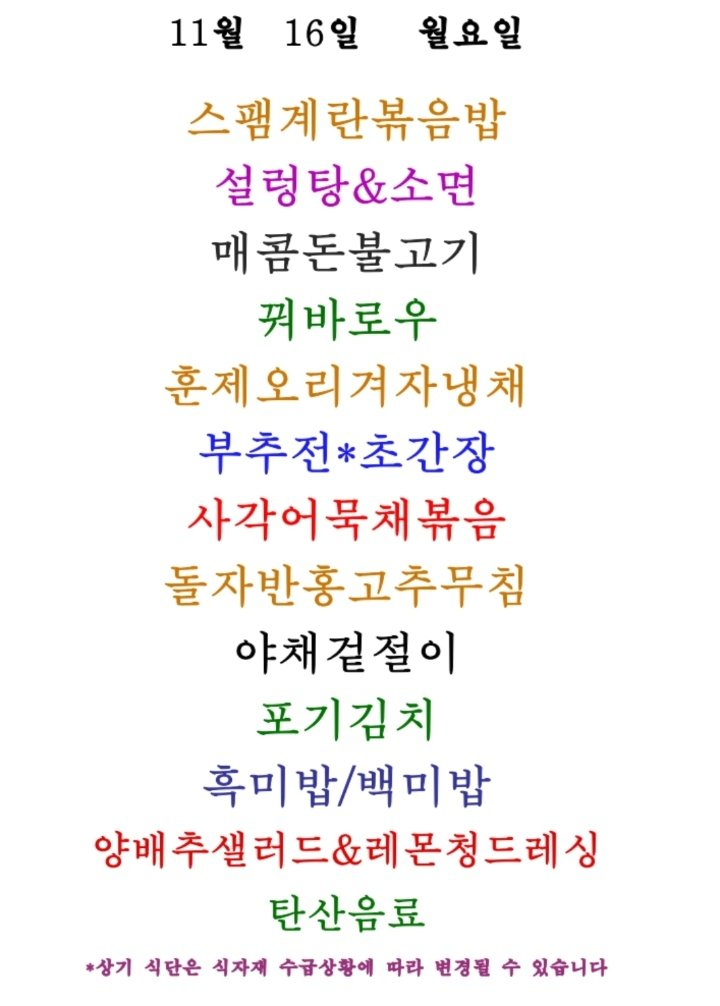
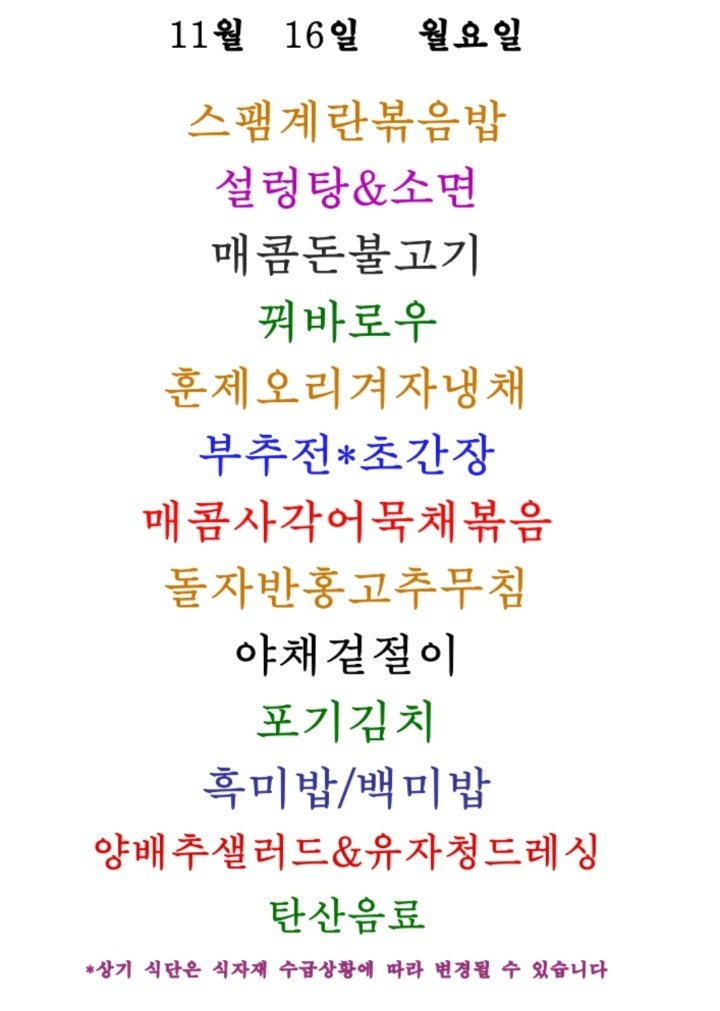
Update menu board assets

diff --git a/guro-menu/index.html b/guro-menu/index.html
@@ -32,7 +32,7 @@
   </header>
   <section class="meta">
     <div><small>기준 날짜</small><strong>2026년 11월 16일 월요일</strong></div>
-    <div><small>최종 갱신</small><strong>2026-11-16 10:13:12</strong></div>
+    <div><small>최종 갱신</small><strong>2026-11-16 10:18:09</strong></div>
     <div><small>등록 식당</small><strong>5개</strong></div>
   </section>
   <div class="notice">공개 카카오 채널의 메뉴 이미지를 자동 수집하고 OCR로 정리합니다. 텍스트에 오타가 있을 수 있으니 식단 이미지를 함께 확인해 주세요.</div>
@@ -48,7 +48,7 @@
         </div>
         <img class="menu-image" src="./images/hanshin-it.png" alt="한신IT타워 구내식당 식단 이미지" loading="lazy">
         
-        <ul><li>스팸계란볶음밥</li><li>설렁탕&amp;소면</li><li>매콤돈불고기</li><li>커바로우</li><li>훈제오리겨자냉채</li><li>부추전*초간장</li><li>사각어묵채볶음</li><li>돌자반홍고추무침</li><li>야채겉절이</li><li>포기김치</li><li>흑미밥/백미밥</li><li>양배추샐러드&amp;레몬청드레싱</li><li>탄산음료</li></ul>
+        <ul><li>스팸계란볶음밥</li><li>설렁탕&amp;소면</li><li>매콤돈불고기</li><li>훈제오리겨자냉채</li><li>우주전*초간장</li><li>매콤사각어욱채오음</li><li>돌자반홍고주무침</li><li>야채겉절이</li><li>포기김치</li><li>옥미밥/백미밥</li><li>양배추샐러드&amp;유자청드레싱</li><li>탄산음료</li></ul>
       </article>
 
       <article class="restaurant-card">

diff --git a/menu-today/index.html b/menu-today/index.html
@@ -209,7 +209,7 @@
 
     <section class="meta-bar">
       <div class="meta-card"><div class="meta-label">기준 날짜</div><div class="meta-value">2026년 11월 16일 월요일</div></div>
-      <div class="meta-card"><div class="meta-label">최종 가져온 시간</div><div class="meta-value">2026-11-16 10:12:58</div></div>
+      <div class="meta-card"><div class="meta-label">최종 가져온 시간</div><div class="meta-value">2026-11-16 10:17:55</div></div>
       <div class="meta-card"><div class="meta-label">확인 완료</div><div class="meta-value">9개 식당</div></div>
       <div class="meta-card"><div class="meta-label">준비중</div><div class="meta-value">3개 채널</div></div>
     </section>
@@ -265,7 +265,7 @@
             <div class="sub">가산비즈니스센터</div>
           </div>
         </div>
-        <div class="menu-inline-image"><img src="./images/raonfood.png" alt="구내식당라온푸드 식단 이미지"></div><ul><li>배없는우꺼지감자탕</li><li>생선까스 / 타르타르S</li><li>검지비빔국수</li><li>모듬견과류조림</li><li>숙주나물무침</li><li>샐러드 &amp; 드레싱</li><li>꺼지감자탐</li></ul>
+        <div class="menu-inline-image"><img src="./images/raonfood.png" alt="구내식당라온푸드 식단 이미지"></div><ul><li>배없는우꺼지감자탕</li><li>생선까스 / 타르타르S</li><li>검지비빔국수</li><li>모듬견과류조림</li><li>숙주나물 무침</li><li>샐러드 &amp; 드레싱</li><li>꺼지감자탐</li></ul>
       </article>
 
       <article class="restaurant-card">
